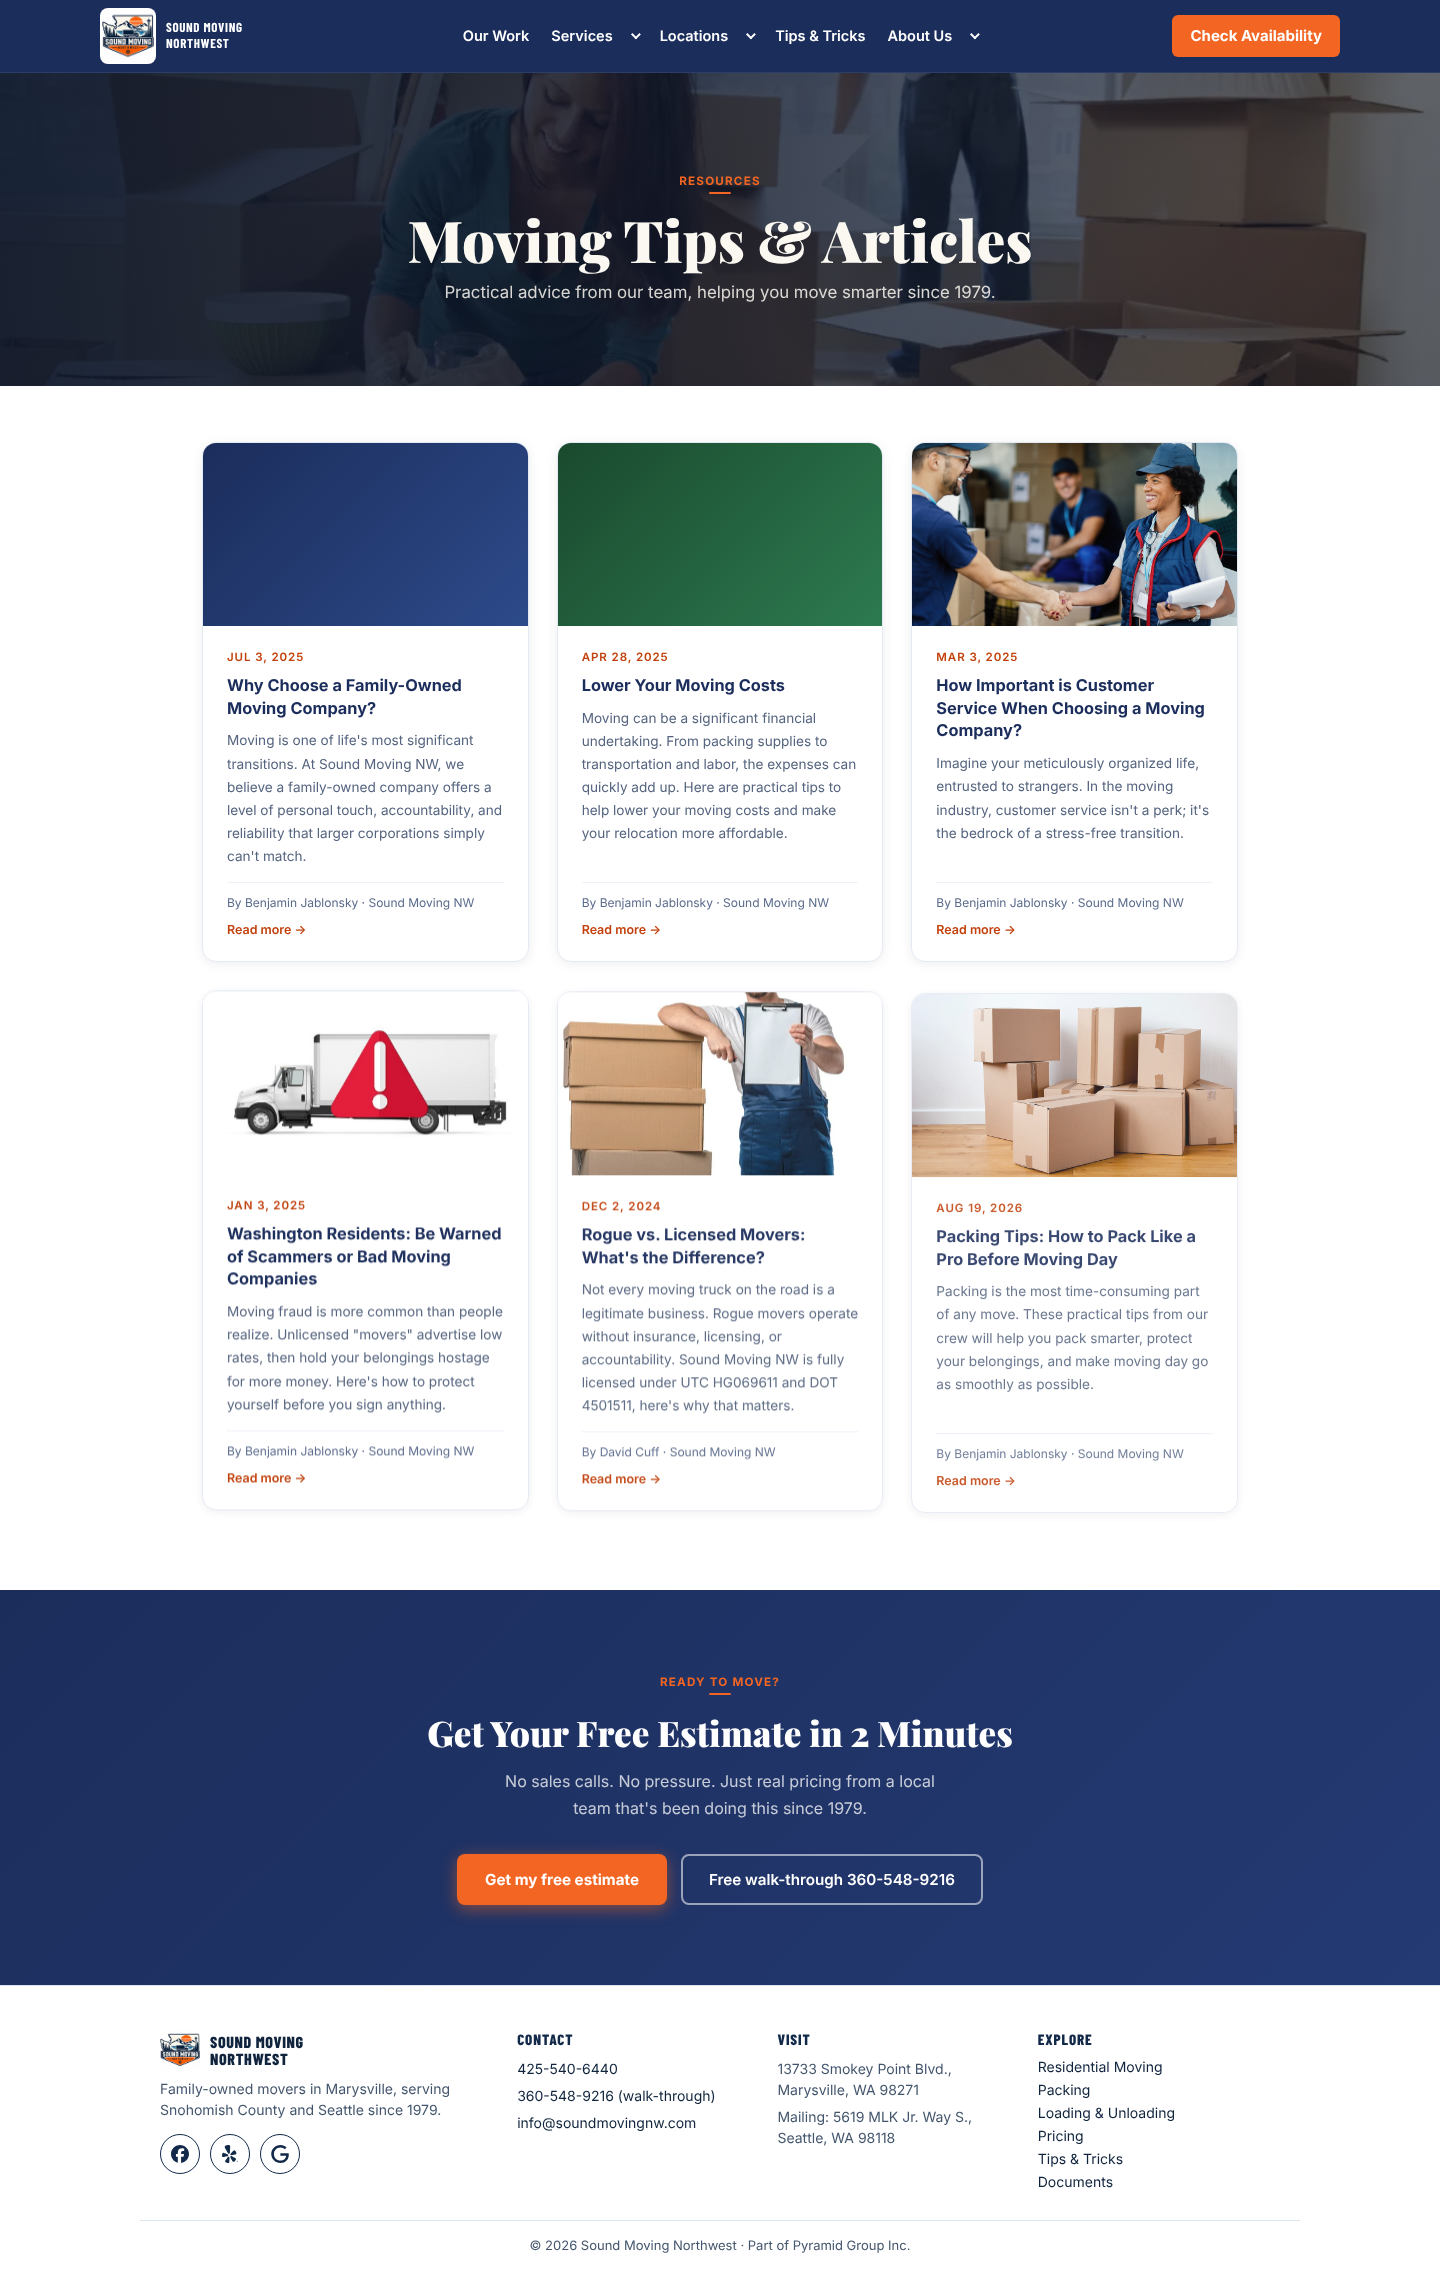
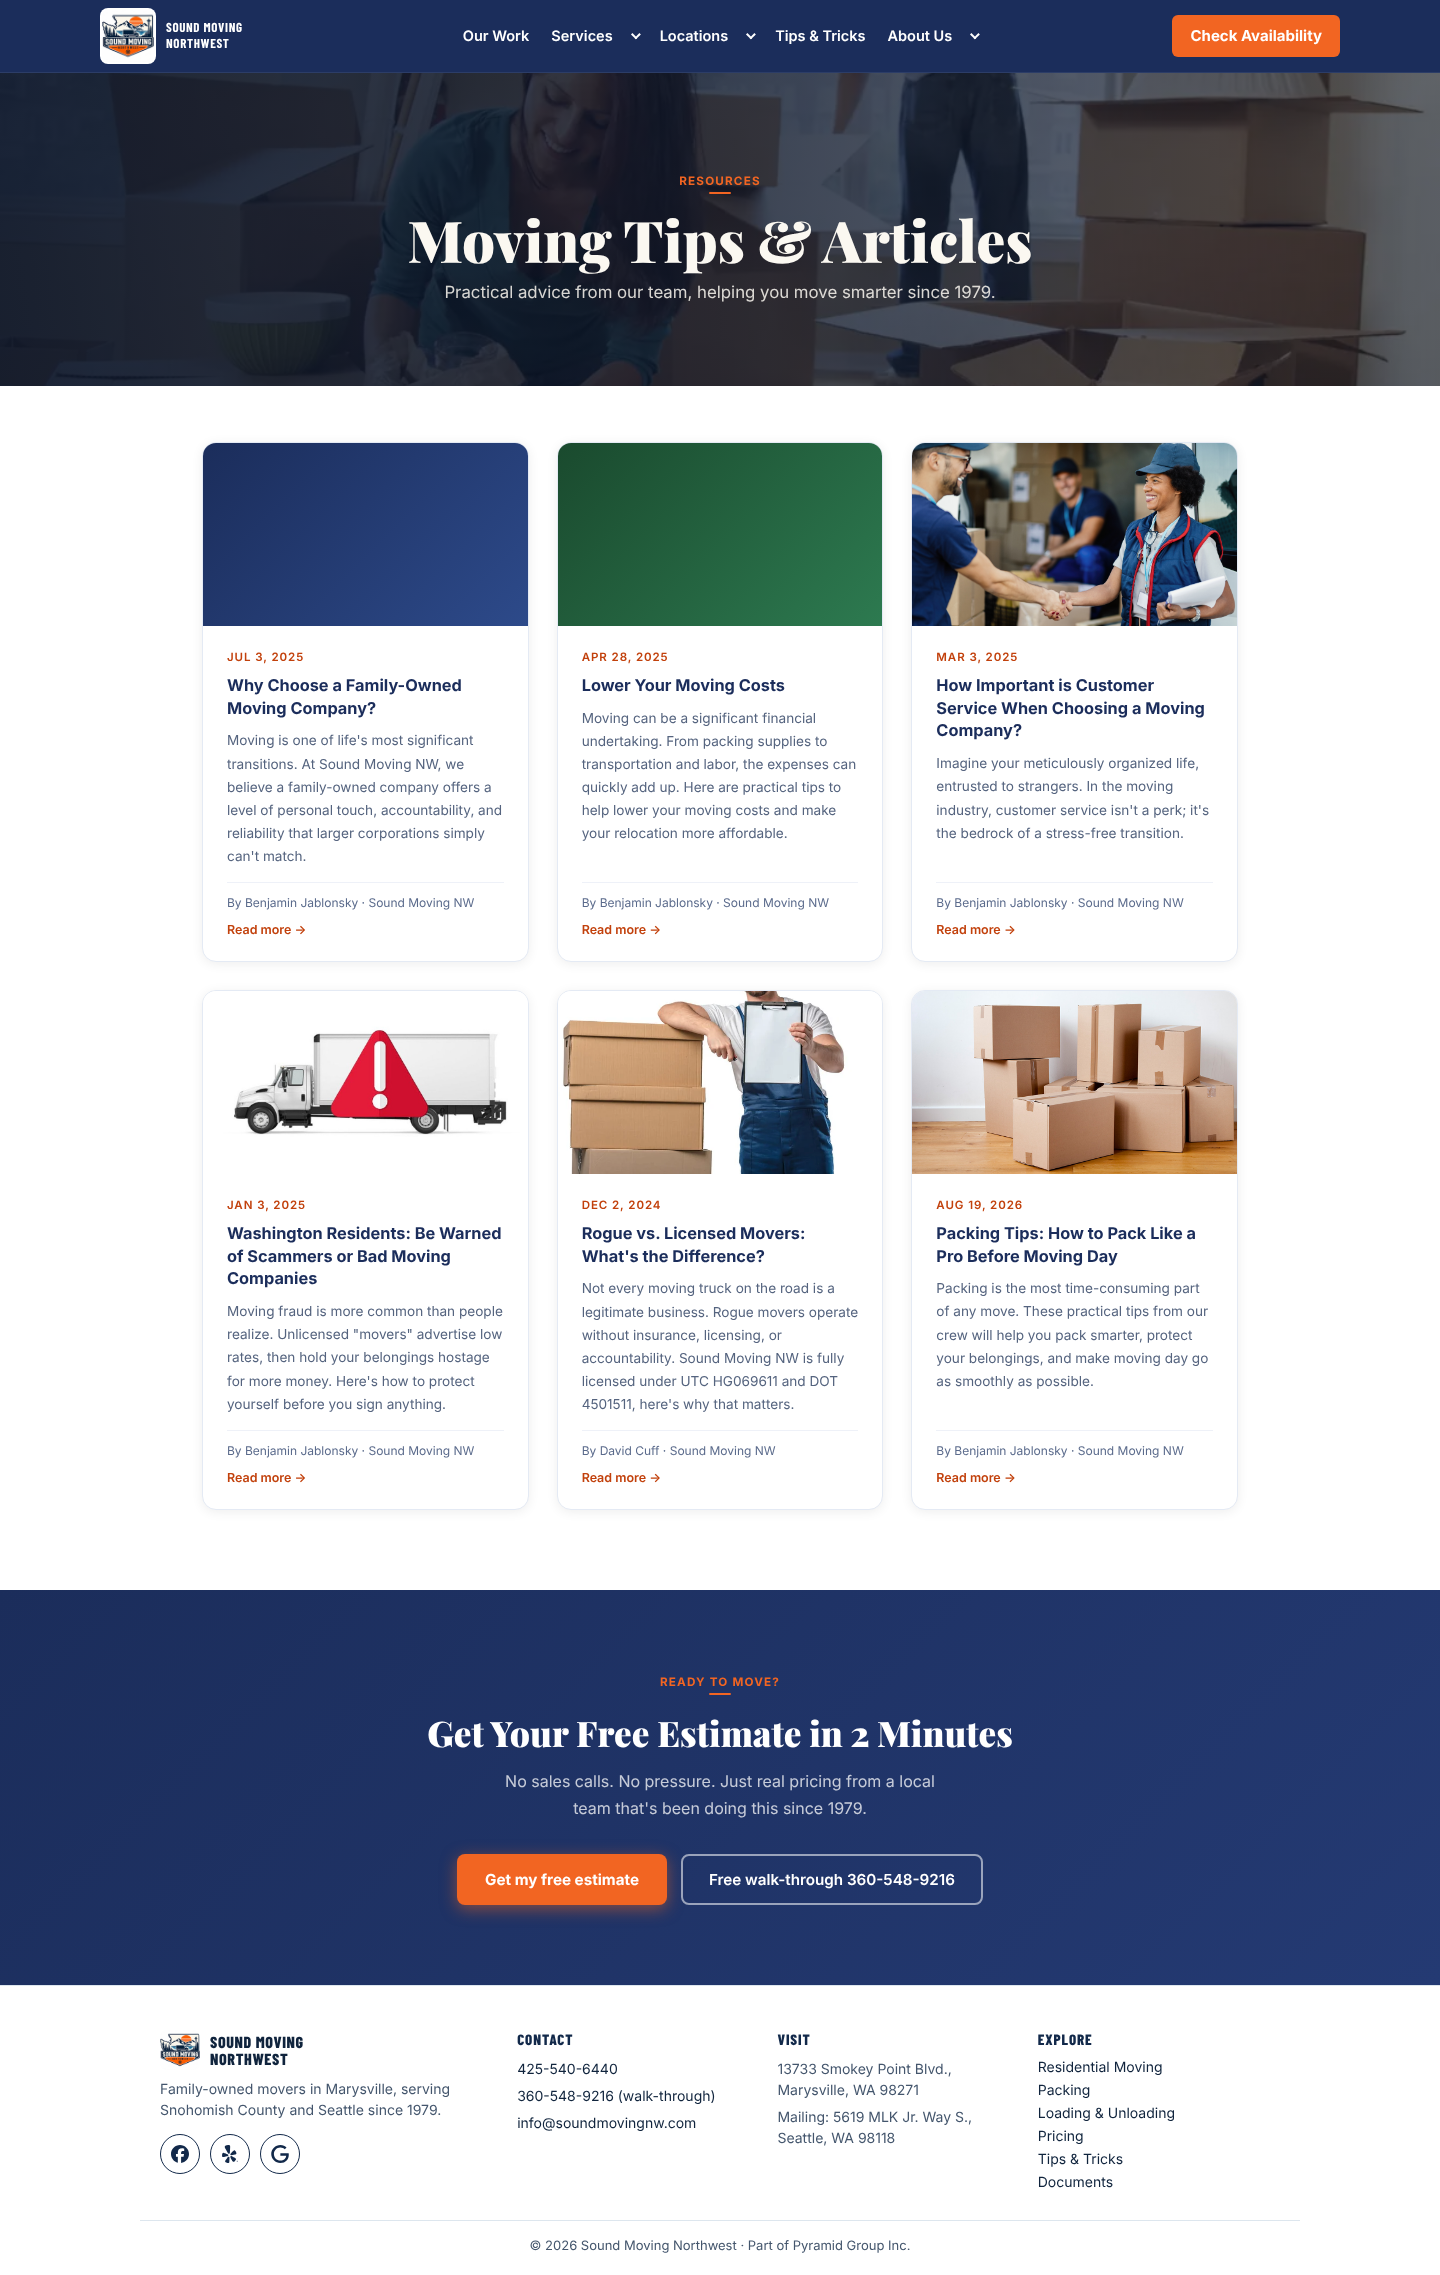
Close desktop dropdowns after a choice; stack the hero on tablets
- Picking a sub-page or clicking the open heading closes the dropdown, even with the mouse still over it
- Close-on-leave only applies to the full desktop menu (1440px and up)
- Tablet hero: headline and buttons full width, facts box full width below with stats in one row

Claude-Session: https://claude.ai/code/session_01XR3d1gvc3BsSzCEJMdNuLk

diff --git a/index.html b/index.html
@@ -1277,6 +1277,34 @@ button:disabled, button[aria-disabled="true"], .is-disabled { opacity:.55; curso
 .sm-error-msg { display:block; margin-top:6px; color:#b71c1c; font-size:.85rem; font-weight:600; }
 .sm-form-alert { display:flex; gap:10px; align-items:flex-start; margin:16px 0 0; padding:14px 16px; border-radius:10px; background:#fdecea; border:1px solid #f5c2bd; color:#8a1c12; font-size:.92rem; line-height:1.5; }
 .sm-form-alert a { color:#8a1c12; font-weight:700; }
+
+/* Dropdown stays shut after a choice until the mouse leaves */
+@media (min-width:1440px) { .sm-dd.sm-dd-suppress .sm-dd-menu { visibility:hidden !important; opacity:0 !important; pointer-events:none !important; transition-delay:0s !important; } }
+
+/* ===== Tablet hero: copy and buttons on top, facts box full width below ===== */
+@media (min-width:720px) and (max-width:1023px) {
+  .hero { min-height:calc(100vh - 72px) !important; padding:56px 40px !important; display:flex !important; flex-direction:column !important; justify-content:center !important; align-items:stretch !important; }
+  .hero .hero-inner { width:100% !important; gap:48px !important; }
+  .hero .hero-left h1 { font-size:clamp(64px, 10vw, 92px) !important; }
+  .hero-panel { padding:34px 36px !important; }
+  .hero-panel .hp-big { font-size:56px !important; }
+  .hero-panel .hp-grid strong { font-size:clamp(30px, 4.2vw, 38px) !important; }
+  .hero-panel .hp-grid span { font-size:15px !important; }
+  .hero-panel .hp-list li { font-size:17px !important; }
+  .hero .hero-inner, .hp-hero-inner { display:flex !important; flex-direction:column !important; flex-wrap:nowrap !important; align-items:stretch !important; justify-content:center !important; gap:40px !important; }
+  .hp-hero-inner { min-height:calc(100vh - 72px) !important; padding:64px 40px !important; }
+  .hero .hero-left, .hp-hero-copy { width:100% !important; max-width:none !important; flex:none !important; }
+  .hero .hero-left h1 { font-size:clamp(56px, 8.6vw, 80px) !important; line-height:1.02 !important; max-width:none !important; }
+  .hp-hero-copy h1 { font-size:clamp(48px, 7.4vw, 68px) !important; }
+  .hp-hero-copy .lead { max-width:640px; }
+  .hero .hero-btns, .hp-hero .hp-btns { display:flex !important; flex-direction:row !important; flex-wrap:nowrap !important; gap:14px !important; width:100% !important; max-width:none !important; margin-top:28px !important; }
+  .hero .hero-btns a, .hp-hero .hp-btns a { flex:1 1 0 !important; width:auto !important; max-width:none !important; min-height:58px; display:inline-flex !important; align-items:center; justify-content:center; font-size:17px !important; }
+  .hero-panel { width:100% !important; max-width:none !important; flex:none !important; display:grid !important; grid-template-columns:auto 1fr; align-items:center; gap:0 !important; padding:28px 32px !important; margin:0 !important; }
+  .hero-panel .hp-top { grid-column:1; grid-row:1; display:flex; flex-direction:column; align-items:center; justify-content:center; padding:0 32px 0 0 !important; margin:0 !important; border:0 !important; border-right:1px solid rgba(255,255,255,.14) !important; text-align:center; }
+  .hero-panel .hp-grid { grid-column:2; grid-row:1; display:grid !important; grid-template-columns:repeat(4, 1fr) !important; gap:8px 16px !important; padding:0 0 0 28px !important; margin:0 !important; border:0 !important; }
+  .hero-panel .hp-list { grid-column:1 / -1; grid-row:2; display:grid !important; grid-template-columns:1fr 1fr; gap:12px 28px; margin:24px 0 0 !important; padding:22px 0 0 !important; border-top:1px solid rgba(255,255,255,.14) !important; }
+  .hero-panel .hp-list li { margin:0 !important; }
+}
 .hero-inner { display: flex; flex-wrap: wrap; align-items: center; justify-content: space-between; gap: 40px; }
 @media (min-width: 1024px) { .hero-inner .hero-left { flex: 1 1 0; min-width: 0; } }
 .hero-logo { flex: 0 0 auto; }

diff --git a/site.css b/site.css
@@ -255,3 +255,31 @@ button:disabled, button[aria-disabled="true"], .is-disabled { opacity:.55; curso
 .sm-error-msg { display:block; margin-top:6px; color:#b71c1c; font-size:.85rem; font-weight:600; }
 .sm-form-alert { display:flex; gap:10px; align-items:flex-start; margin:16px 0 0; padding:14px 16px; border-radius:10px; background:#fdecea; border:1px solid #f5c2bd; color:#8a1c12; font-size:.92rem; line-height:1.5; }
 .sm-form-alert a { color:#8a1c12; font-weight:700; }
+
+/* Dropdown stays shut after a choice until the mouse leaves */
+@media (min-width:1440px) { .sm-dd.sm-dd-suppress .sm-dd-menu { visibility:hidden !important; opacity:0 !important; pointer-events:none !important; transition-delay:0s !important; } }
+
+/* ===== Tablet hero: copy and buttons on top, facts box full width below ===== */
+@media (min-width:720px) and (max-width:1023px) {
+  .hero { min-height:calc(100vh - 72px) !important; padding:56px 40px !important; display:flex !important; flex-direction:column !important; justify-content:center !important; align-items:stretch !important; }
+  .hero .hero-inner { width:100% !important; gap:48px !important; }
+  .hero .hero-left h1 { font-size:clamp(64px, 10vw, 92px) !important; }
+  .hero-panel { padding:34px 36px !important; }
+  .hero-panel .hp-big { font-size:56px !important; }
+  .hero-panel .hp-grid strong { font-size:clamp(30px, 4.2vw, 38px) !important; }
+  .hero-panel .hp-grid span { font-size:15px !important; }
+  .hero-panel .hp-list li { font-size:17px !important; }
+  .hero .hero-inner, .hp-hero-inner { display:flex !important; flex-direction:column !important; flex-wrap:nowrap !important; align-items:stretch !important; justify-content:center !important; gap:40px !important; }
+  .hp-hero-inner { min-height:calc(100vh - 72px) !important; padding:64px 40px !important; }
+  .hero .hero-left, .hp-hero-copy { width:100% !important; max-width:none !important; flex:none !important; }
+  .hero .hero-left h1 { font-size:clamp(56px, 8.6vw, 80px) !important; line-height:1.02 !important; max-width:none !important; }
+  .hp-hero-copy h1 { font-size:clamp(48px, 7.4vw, 68px) !important; }
+  .hp-hero-copy .lead { max-width:640px; }
+  .hero .hero-btns, .hp-hero .hp-btns { display:flex !important; flex-direction:row !important; flex-wrap:nowrap !important; gap:14px !important; width:100% !important; max-width:none !important; margin-top:28px !important; }
+  .hero .hero-btns a, .hp-hero .hp-btns a { flex:1 1 0 !important; width:auto !important; max-width:none !important; min-height:58px; display:inline-flex !important; align-items:center; justify-content:center; font-size:17px !important; }
+  .hero-panel { width:100% !important; max-width:none !important; flex:none !important; display:grid !important; grid-template-columns:auto 1fr; align-items:center; gap:0 !important; padding:28px 32px !important; margin:0 !important; }
+  .hero-panel .hp-top { grid-column:1; grid-row:1; display:flex; flex-direction:column; align-items:center; justify-content:center; padding:0 32px 0 0 !important; margin:0 !important; border:0 !important; border-right:1px solid rgba(255,255,255,.14) !important; text-align:center; }
+  .hero-panel .hp-grid { grid-column:2; grid-row:1; display:grid !important; grid-template-columns:repeat(4, 1fr) !important; gap:8px 16px !important; padding:0 0 0 28px !important; margin:0 !important; border:0 !important; }
+  .hero-panel .hp-list { grid-column:1 / -1; grid-row:2; display:grid !important; grid-template-columns:1fr 1fr; gap:12px 28px; margin:24px 0 0 !important; padding:22px 0 0 !important; border-top:1px solid rgba(255,255,255,.14) !important; }
+  .hero-panel .hp-list li { margin:0 !important; }
+}

diff --git a/site.js b/site.js
@@ -9,9 +9,16 @@
       btn.textContent = open ? 'Close' : 'Menu';
     });
   }
+  var wide = window.matchMedia('(min-width:1440px)');
   document.querySelectorAll('.sm-dd-btn').forEach(function (b) {
     b.addEventListener('click', function () {
-      var menu = b.nextElementSibling;
+      var menu = b.nextElementSibling, dd = b.parentNode;
+      // Desktop: if hover already shows the menu, a click on the heading closes it
+      if (wide.matches && getComputedStyle(menu).visibility === 'visible') {
+        menu.classList.remove('open'); b.setAttribute('aria-expanded', 'false');
+        dd.classList.add('sm-dd-suppress'); b.blur(); return;
+      }
+      dd.classList.remove('sm-dd-suppress');
       var open = !menu.classList.contains('open');
       document.querySelectorAll('.sm-dd-menu.open').forEach(function (m) { m.classList.remove('open'); });
       document.querySelectorAll('.sm-dd-btn').forEach(function (x) { x.setAttribute('aria-expanded', 'false'); });
@@ -24,9 +31,17 @@
     document.querySelectorAll('.sm-dd-menu.open').forEach(function (m) { m.classList.remove('open'); });
     document.querySelectorAll('.sm-dd-btn').forEach(function (x) { x.setAttribute('aria-expanded', 'false'); });
   }
-  var desktop = window.matchMedia('(min-width:1024px)');
+  var desktop = window.matchMedia('(min-width:1440px)');
   document.querySelectorAll('.sm-dd').forEach(function (dd) {
+    // Picking a sub-page closes the dropdown straight away
+    dd.querySelectorAll('.sm-dd-menu a').forEach(function (a) {
+      a.addEventListener('click', function () {
+        closeAll();
+        if (desktop.matches) { dd.classList.add('sm-dd-suppress'); a.blur(); }
+      });
+    });
     dd.addEventListener('mouseleave', function () {
+      dd.classList.remove('sm-dd-suppress');
       if (!desktop.matches) return;
       closeAll();
       if (dd.contains(document.activeElement)) document.activeElement.blur();
